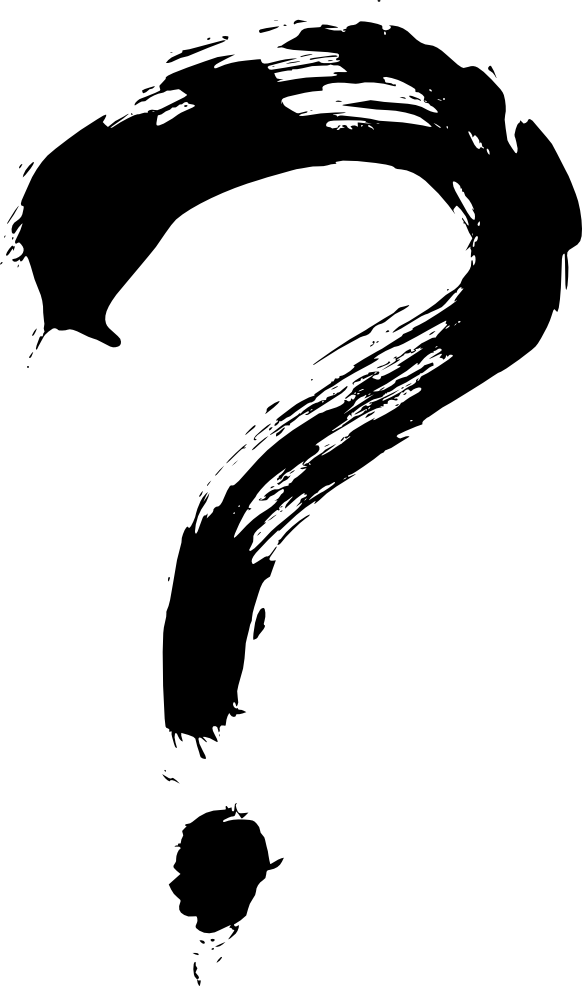
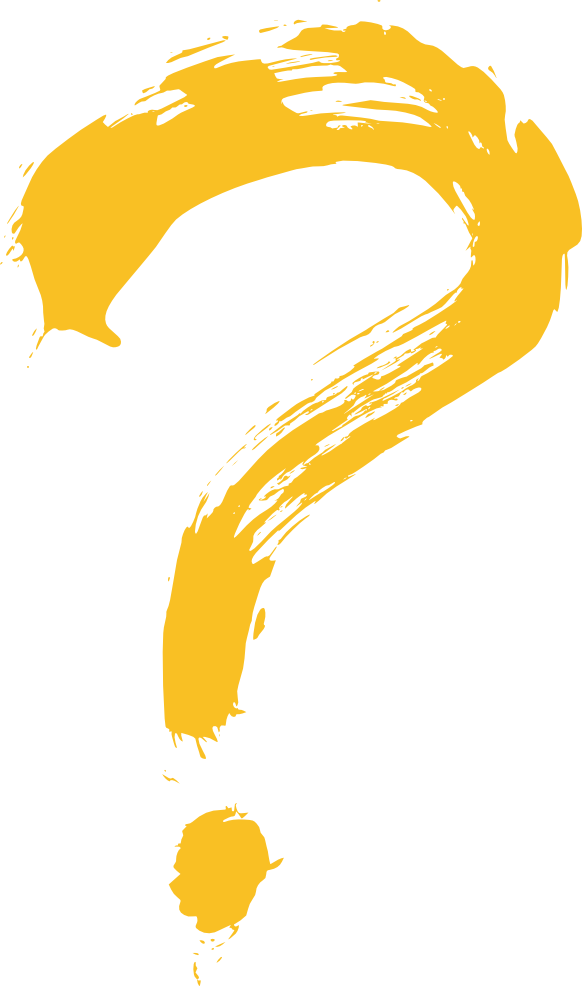
updated ui 2

Changed region(s): [[0.0, 0.0, 1.0, 0.7606], [0.2784, 0.8215, 0.4948, 0.9736], [0.3093, 0.9736, 0.3402, 1.0]]

diff --git a/index.html b/index.html
@@ -7,6 +7,9 @@
     <link rel="preconnect" href="https://fonts.googleapis.com" />
     <link rel="preconnect" href="https://fonts.gstatic.com" crossorigin />
     <link href="https://fonts.googleapis.com/css2?family=Poppins:wght@400;700&display=swap" rel="stylesheet" />
+    <link rel="preconnect" href="https://fonts.googleapis.com" />
+    <link rel="preconnect" href="https://fonts.gstatic.com" crossorigin />
+    <link href="https://fonts.googleapis.com/css2?family=Passion+One:wght@400;700&display=swap" rel="stylesheet" />
     <script src="https://kit.fontawesome.com/4c536a6bd5.js" crossorigin="anonymous"></script>
     <link rel="stylesheet" href="./style.css" />
 
@@ -27,12 +30,12 @@
         <div class="scores">
           <div class="score">
             <img src="/images/question.png" alt="" />
-            <p id="player-score">Player:</p>
+            <p id="player-score">Player: 0</p>
           </div>
 
           <div class="score">
             <img src="/images/question.png" alt="" />
-            <p id="com-score">Computer:</p>
+            <p id="com-score">Comp: 0</p>
           </div>
         </div>
       </div>
@@ -40,29 +43,31 @@
       <div class="weapon-container">
         <div class="rsp-buttons">
           <div class="weapon rock-btn">
-            <img src="./images/rock2.png" alt="" />
+            <img src="./images/rock.png" alt="" />
           </div>
           <div class="weapon paper-btn">
             <img src="./images/paper.png" alt="" />
           </div>
           <div class="weapon scissors-btn">
-            <img src="./images/scissors2.png" alt="" />
+            <img src="./images/scissors.png" alt="" />
           </div>
         </div>
       </div>
       <!-- <button onclick="game()">Start Game</button> -->
     </main>
 
-    <!-- <footer>
-      <p>
-        Copyright ©
-        <script>
-          document.write(new Date().getFullYear());
-        </script>
-        Osius Kara
-      </p>
-      <a href="https://github.com/OsiusKara" target="_blank"> <i class="fab fa-github"></i></a>
-    </footer> -->
+    <footer>
+      <div class="footer-content">
+        <p>
+          Copyright ©
+          <script>
+            document.write(new Date().getFullYear());
+          </script>
+          Osius Kara
+        </p>
+        <a href="https://github.com/OsiusKara" target="_blank"> <i class="fab fa-github"></i></a>
+      </div>
+    </footer>
 
     <script src="./index.js"></script>
   </body>

diff --git a/style.css b/style.css
@@ -28,6 +28,8 @@ header {
 }
 
 header h1 {
+  font-family: "Passion One", cursive;
+  letter-spacing: 0.1rem;
   font-size: 3rem;
 }
 
@@ -35,11 +37,15 @@ header h1 {
   color: #fdfdfd;
   justify-content: center;
   text-align: center;
-  margin-top: 2rem;
+  margin: 4rem 0 2rem 0;
 }
 
 .scoreboard-header h2 {
   margin-bottom: 0.5rem;
+}
+
+.scoreboard-header p {
+  opacity: 0.8;
 }
 
 .scoreboard {
@@ -61,11 +67,17 @@ header h1 {
 
 .scores img {
   width: 100px;
+  margin-bottom: 2rem;
+}
+
+.score p {
+  font-size: 1.3rem;
 }
 
 .weapon-container {
   display: flex;
   justify-content: center;
+  margin-top: 2.7rem;
 }
 
 .rsp-buttons {
@@ -73,16 +85,23 @@ header h1 {
   display: flex;
   justify-content: space-evenly;
   align-items: center;
+  margin-top: 1rem;
 }
 
 .weapon {
   width: 150px;
   display: flex;
   justify-content: center;
-  border: 1px solid #fdfdfd;
+  /* border: 1px solid #c6c5c9; */
+  border: 1px solid #f9c024;
+
   border-radius: 5px;
   margin-top: 2rem;
   cursor: pointer;
+}
+.weapon:hover {
+  top: -5px;
+  background-color: #1b263b;
 }
 
 .weapon img {
@@ -91,17 +110,24 @@ header h1 {
 
 /* ================FOOTER=========================== */
 
-/* footer {
+footer {
   color: #fdfdfd;
   display: flex;
   justify-content: center;
-  position: realtive;
-  bottom: 0px;
   padding: 1rem;
+  position: relative;
+}
+
+.footer-content {
+  display: flex;
+  justify-content: center;
+  position: fixed;
+  bottom: 0px;
+  margin-bottom: 2rem;
 }
 
 .fa-github {
-  color: #fdfdfd;
+  color: #09080a;
   font-size: 24px;
   transition: transform 0.3s ease-in-out;
   margin-left: 0.4rem;
@@ -109,4 +135,4 @@ header h1 {
 
 .fa-github:hover {
   transform: rotate(360deg) scale(1.2);
-} */
+}
